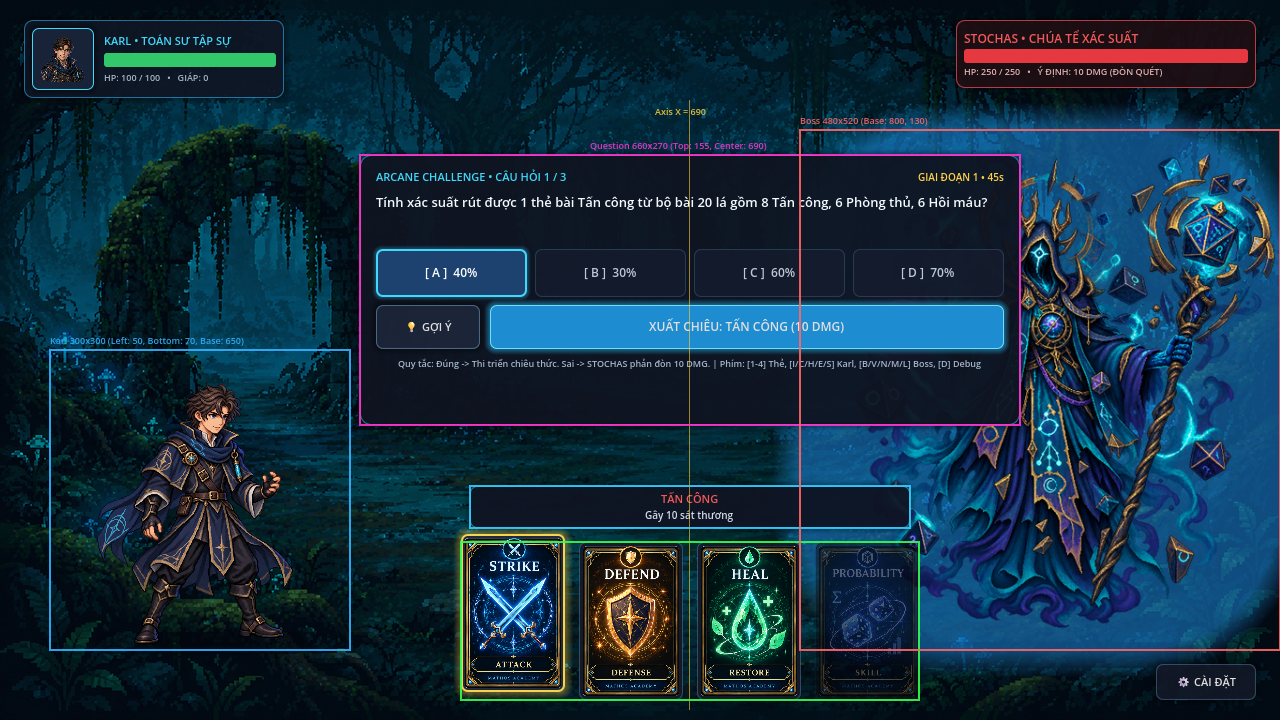
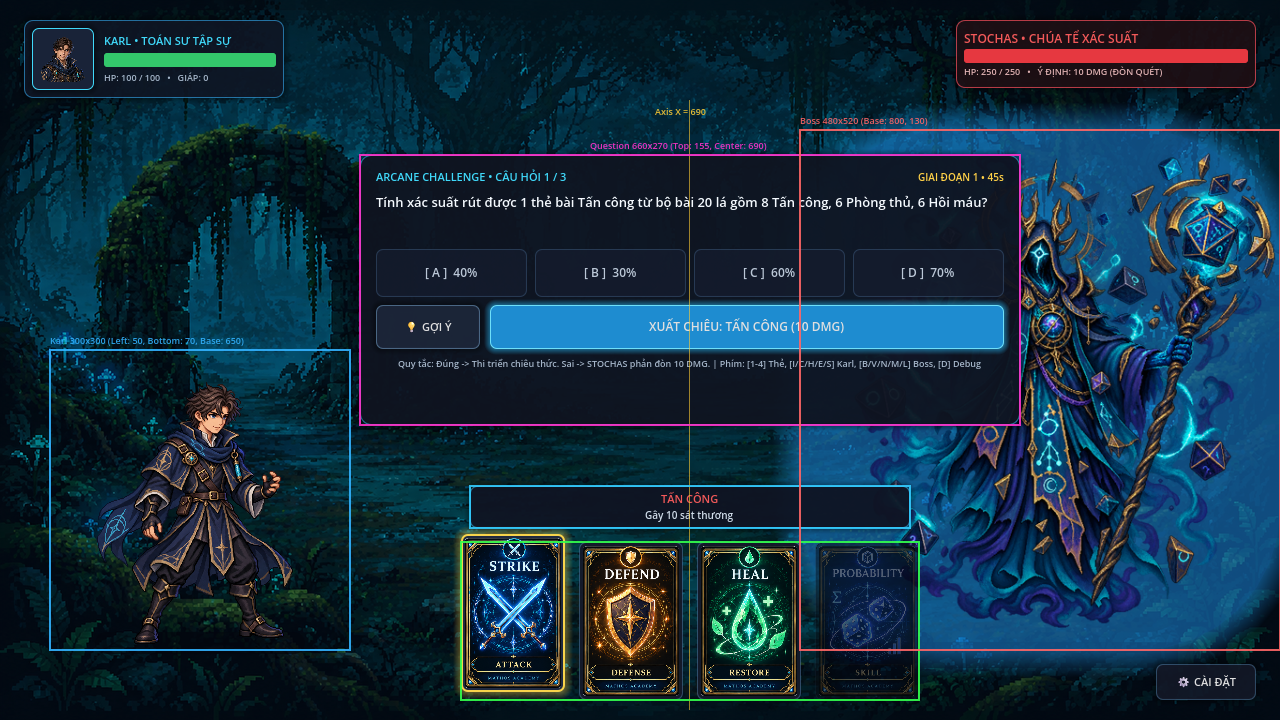
fix(lab): correct combat interaction timing and resolution chain [MATHOS-STOCHAS-LAB-COMBAT-TIMING-FIX-225L]

Changed region(s): [[0.2812, 0.3361, 0.4375, 0.4278]]

diff --git a/Agent recovery/Agent3.md b/Agent recovery/Agent3.md
@@ -3,23 +3,23 @@
 > Canonical recovery note for Agent3. This file must be updated every time Agent3 receives a prompt, and updated again before sending a report if state changed.
 
 ## 1. CURRENT TASK
-- TASK_ID: MATHOS-STOCHAS-BOSS-STATE-ANIMATION-LAB-224L
-- TITLE: LAB-only STOCHAS boss state animation integration
-- FROM: User / Human Visual Lab
-- PRIORITY: P0 / HUMAN VISUAL LAB
-- BASE: ec2b967b9bf556c698dda9e209c7d1c306e42b74
+- TASK_ID: MATHOS-STOCHAS-LAB-COMBAT-TIMING-FIX-225L
+- TITLE: LAB-only interaction timing fix
+- FROM: User / LAB Gameplay Flow Correction
+- PRIORITY: P0 / LAB GAMEPLAY FLOW CORRECTION
+- BASE: 8daf880244c8673c88fd373e12f922618be26f44
 - STATUS: DONE
-- PROMPT_RECEIVED_AT: 2026-09-13T08:25:43+07:00
-- UPDATED_AT: 2026-09-13T08:33:00+07:00
+- PROMPT_RECEIVED_AT: 2026-09-13T08:47:00+07:00
+- UPDATED_AT: 2026-09-13T08:48:45+07:00
 
 ## 2. WORKSPACE / GIT
 - PROJECT: Mathos
 - WORKTREE: D:\Mathos_Worktrees\MATHOS-STORY-PARITY-FIX-185
 - BRANCH: task/mathos-story-parity-fix-185
-- START_HEAD: ec2b967b9bf556c698dda9e209c7d1c306e42b74
-- CURRENT_HEAD: 071d4909a58c383d74f9cbf9aba01f027eb90961
-- FINAL_HEAD: 071d4909a58c383d74f9cbf9aba01f027eb90961
-- CANONICAL_BASE: ec2b967b9bf556c698dda9e209c7d1c306e42b74
+- START_HEAD: 8daf880244c8673c88fd373e12f922618be26f44
+- CURRENT_HEAD: ca9979dafd68807c1b6648c9473e42443a7b9a99
+- FINAL_HEAD: ca9979dafd68807c1b6648c9473e42443a7b9a99
+- CANONICAL_BASE: 8daf880244c8673c88fd373e12f922618be26f44
 - PRODUCTION_SOURCE_CHANGED: NO (0 production files modified)
 
 ## 3. EXACT PROMPT / INTENT SUMMARY
@@ -88,21 +88,20 @@
 - State Priority: STUN > HIT > CAST > ENRAGED > IDLE (zero tween fighting, clean resume)
 - Position Drift: 0.0 px (all tweens explicitly anchor to BOSS_BASE_POS)
 
-## 6. ACCEPTANCE GATES STATUS (MATHOS-STOCHAS-BOSS-STATE-ANIMATION-LAB-224L)
-- GATE 1 (Idle/stand animation visibly loops and remains subtle): PASS (3.2s loop, 6px float, 0.8% scale)
-- GATE 2 (Boss does not feel like a static PNG): PASS (ground shadow, pulsing aura, floating animation)
-- GATE 3 (Cast/attack animation clearly reads as attack): PASS (anticipation, staff spark, lunge -28px, projectile, Karl HIT)
-- GATE 4 (Boss HIT state has readable recoil + flash): PASS (recoil +16px, rotation kick -1.5 deg, red flash modulate)
-- GATE 5 (STUN state clearly communicates boss is disabled): PASS (stagger, dizzy sway, 3 golden head stars, CHOÁNG)
-- GATE 6 (Idle animation pauses during stun/hit/cast): PASS (idle tween cleanly paused/killed during transient states)
-- GATE 7 (State transitions return cleanly to idle): PASS (smooth return callback to idle loop)
-- GATE 8 (STOCHAS position does not permanently drift): PASS (base position exactly 800, 130, scale 1.0, rot 0.0)
-- GATE 9 (STRIKE preview causes STOCHAS -10 HP visual feedback): PASS (Karl CAST -> STOCHAS HIT & -10 HP)
-- GATE 10 (Wrong-answer preview causes STOCHAS attack -> Karl -10 HP): PASS (STOCHAS CAST -> Karl HIT & -10 HP)
-- GATE 11 (Karl existing 5 states remain functional): PASS (IDLE, CAST, HIT, HEAL, SHIELD; baseline 650.0 px)
+## 6. ACCEPTANCE GATES STATUS (MATHOS-STOCHAS-LAB-COMBAT-TIMING-FIX-225L)
+- GATE 1 (Initial state clean: has_selected_answer = false, answer_idx = -1, IDLE states): PASS
+- GATE 2 (Card selection updates visual highlight, hover detail, and CTA text ONLY; 0 animation): PASS
+- GATE 3 (Answer selection updates choice button highlight ONLY; 0 animation): PASS
+- GATE 4 (CTA press without answer selected displays floating warning "Chọn đáp án trước", 0 animation): PASS
+- GATE 5 (CTA press on disabled card PROBABILITY shows "CHƯA KÍCH HOẠT", 0 animation): PASS
+- GATE 6 (Correct answer + STRIKE card triggers Karl CAST -> STOCHAS HIT & -10 HP near STOCHAS): PASS
+- GATE 7 (Correct answer + DEFEND card triggers Karl SHIELD & +8 GIÁP barrier VFX): PASS
+- GATE 8 (Correct answer + HEAL card triggers Karl HEAL & +15 HP emerald aura VFX): PASS
+- GATE 9 (Wrong answer triggers STOCHAS CAST counter-attack -> Karl HIT & -10 HP near Karl; card does not execute): PASS
+- GATE 10 (Manual debug hotkeys [I/C/H/E/S/B/V/N/M/L/D] remain fully functional): PASS
+- GATE 11 (All 5 Karl states baseline alignment preserved at 650.0 px): PASS
 - GATE 12 (Question/card/background layout unchanged): PASS (Question 660x270 at 690/155, Karl 300x300, cards 104x158)
-- GATE 13 (Production unchanged): PASS (0 production files modified)
-- GATE 14 (No image generated/edited): PASS (canonical stochas_boss.png animated natively)
+- GATE 13 (Production source untouched & 0 images generated/edited): PASS (0 production files modified)
 
 ## 7. RECENT PROMPT LOG
 ### Prompt entry 49
@@ -116,3 +115,10 @@
 - TASK_ID: MATHOS-STOCHAS-BOSS-STATE-ANIMATION-LAB-224L
 - ONE_LINE_INTENT: Integrate native Godot Tweens and state animations for STOCHAS (Idle, Cast, Hit, Stun, Enraged) and preview combat chain in LAB.
 - RESULT / CURRENT_STATE: DONE (All 14 automated gates PASSED)
+
+### Prompt entry 51
+- RECEIVED_AT: 2026-09-13T08:47:00+07:00
+- TASK_ID: MATHOS-STOCHAS-LAB-COMBAT-TIMING-FIX-225L
+- ONE_LINE_INTENT: Decouple card selection from immediate attack triggers, enforce answer selection check on CTA press, and lock combat execution timing chain.
+- RESULT / CURRENT_STATE: DONE (All 13 automated gates PASSED)
+
